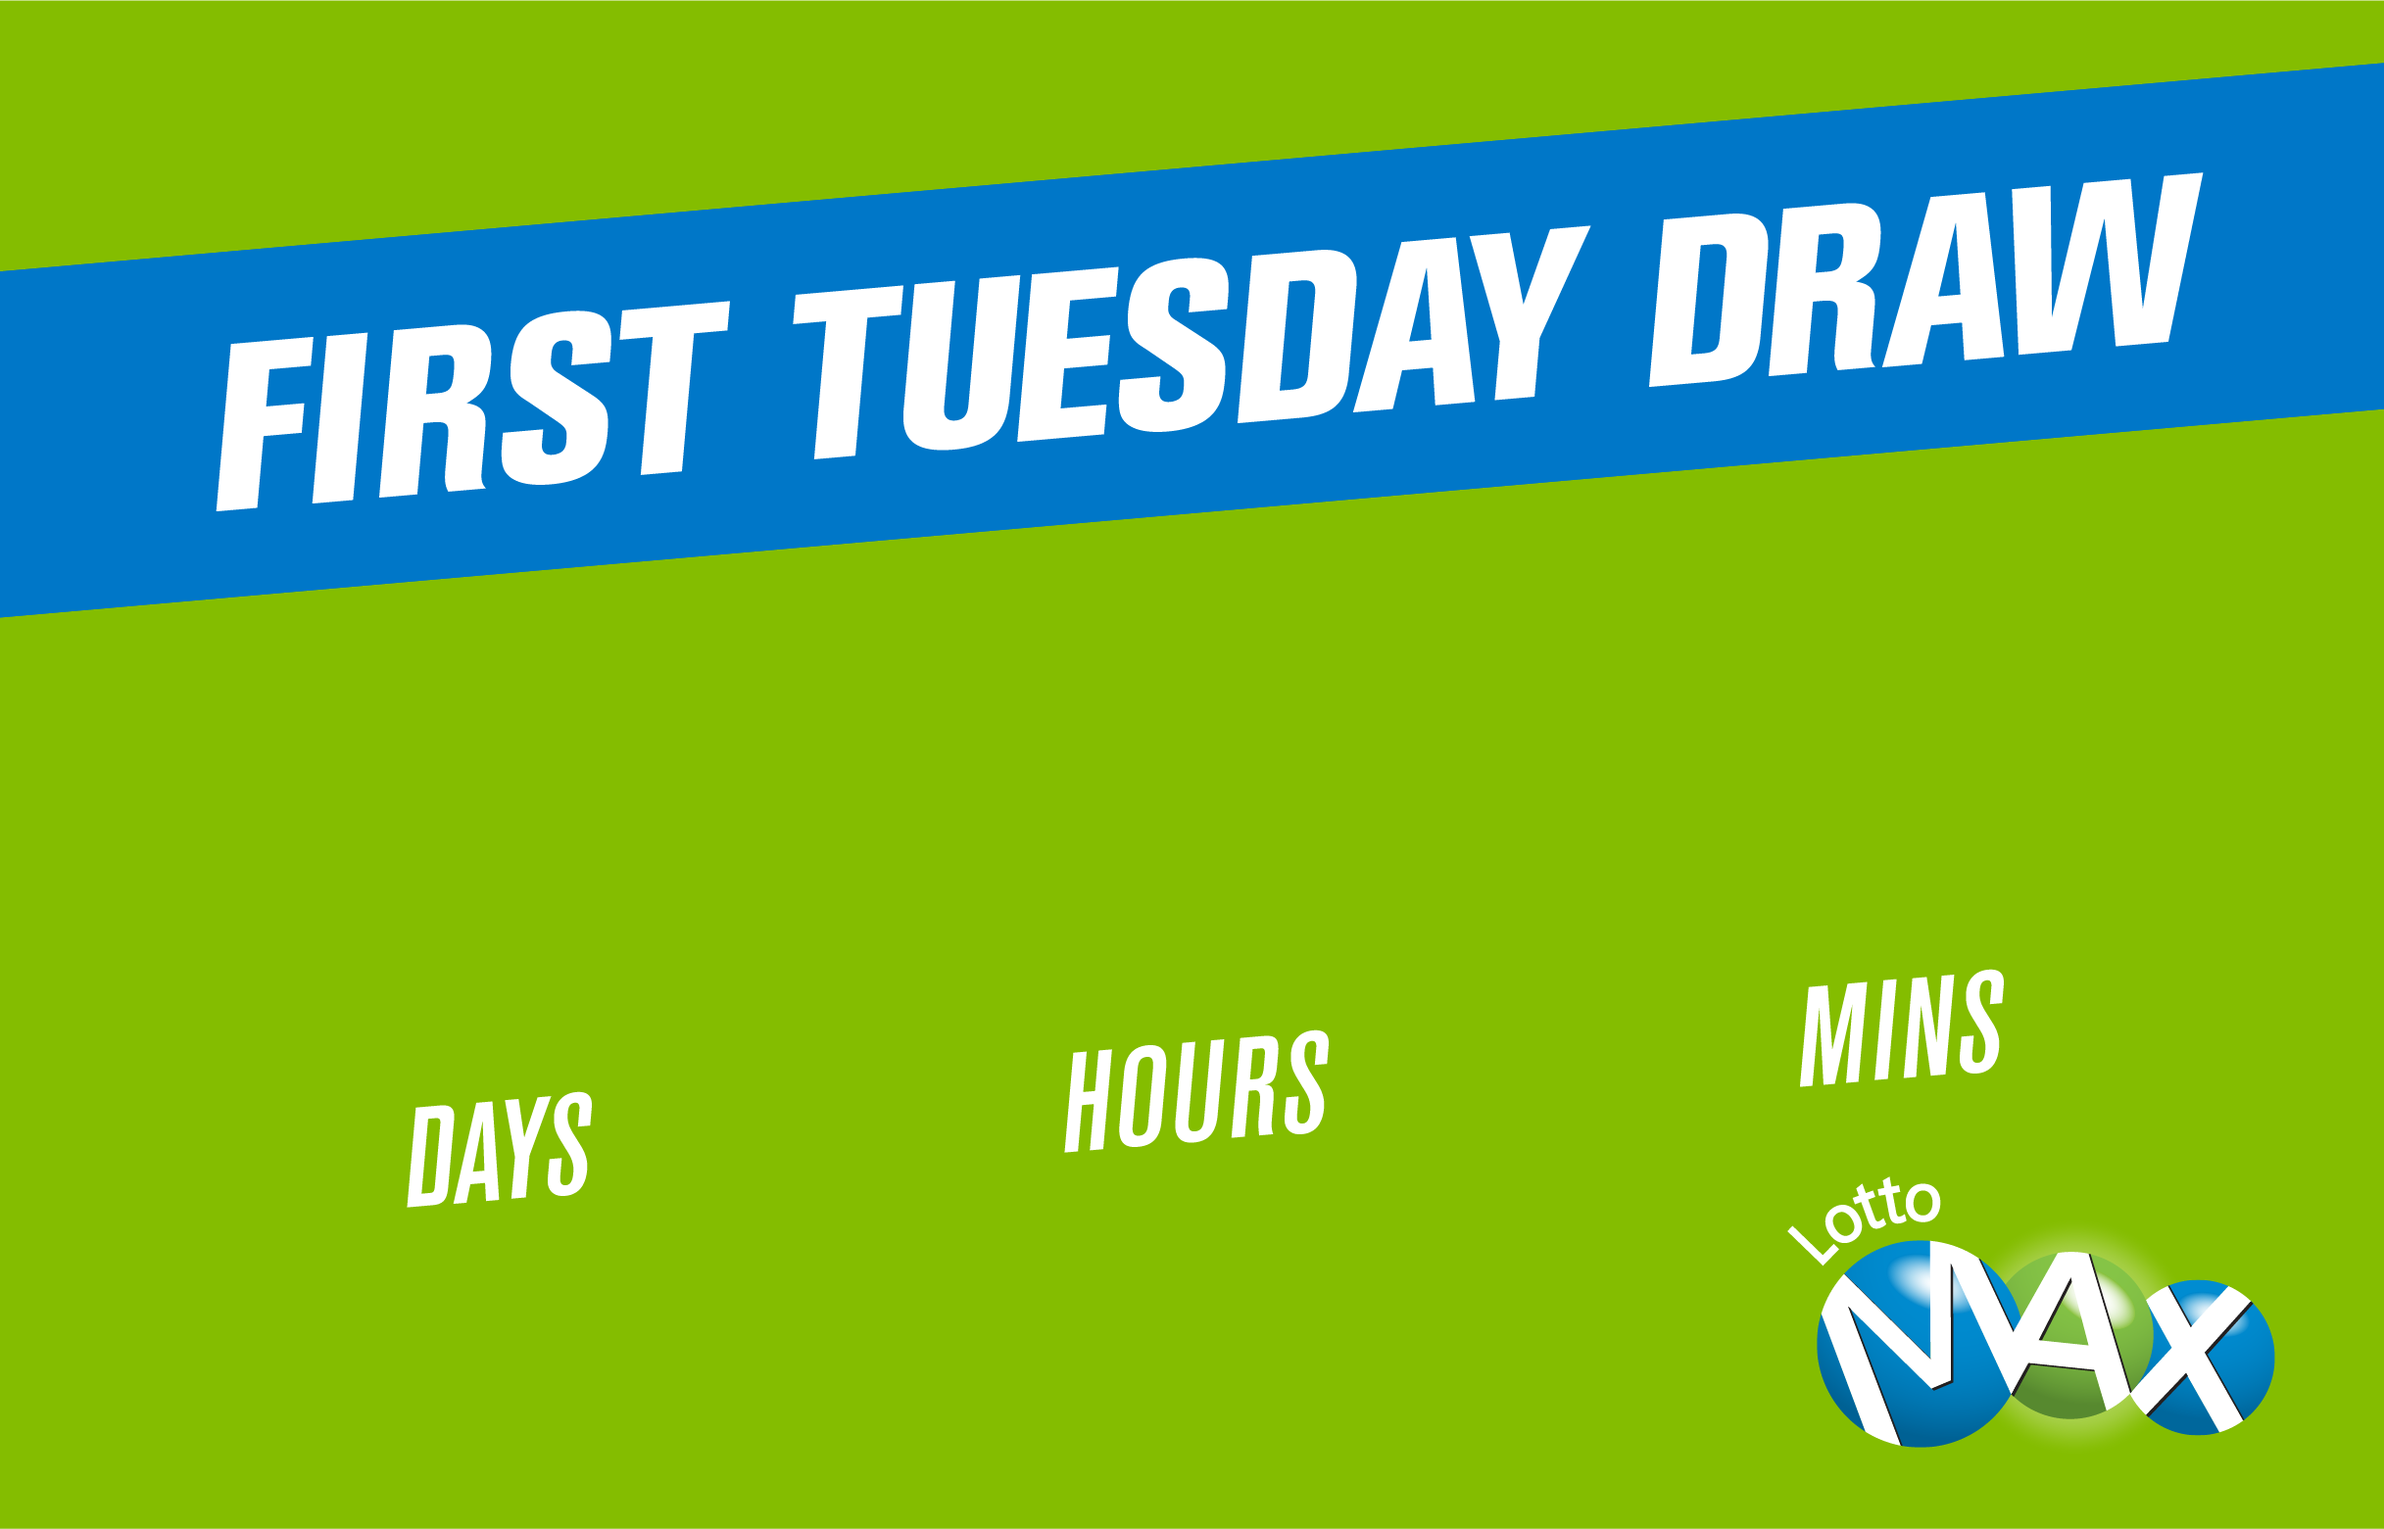
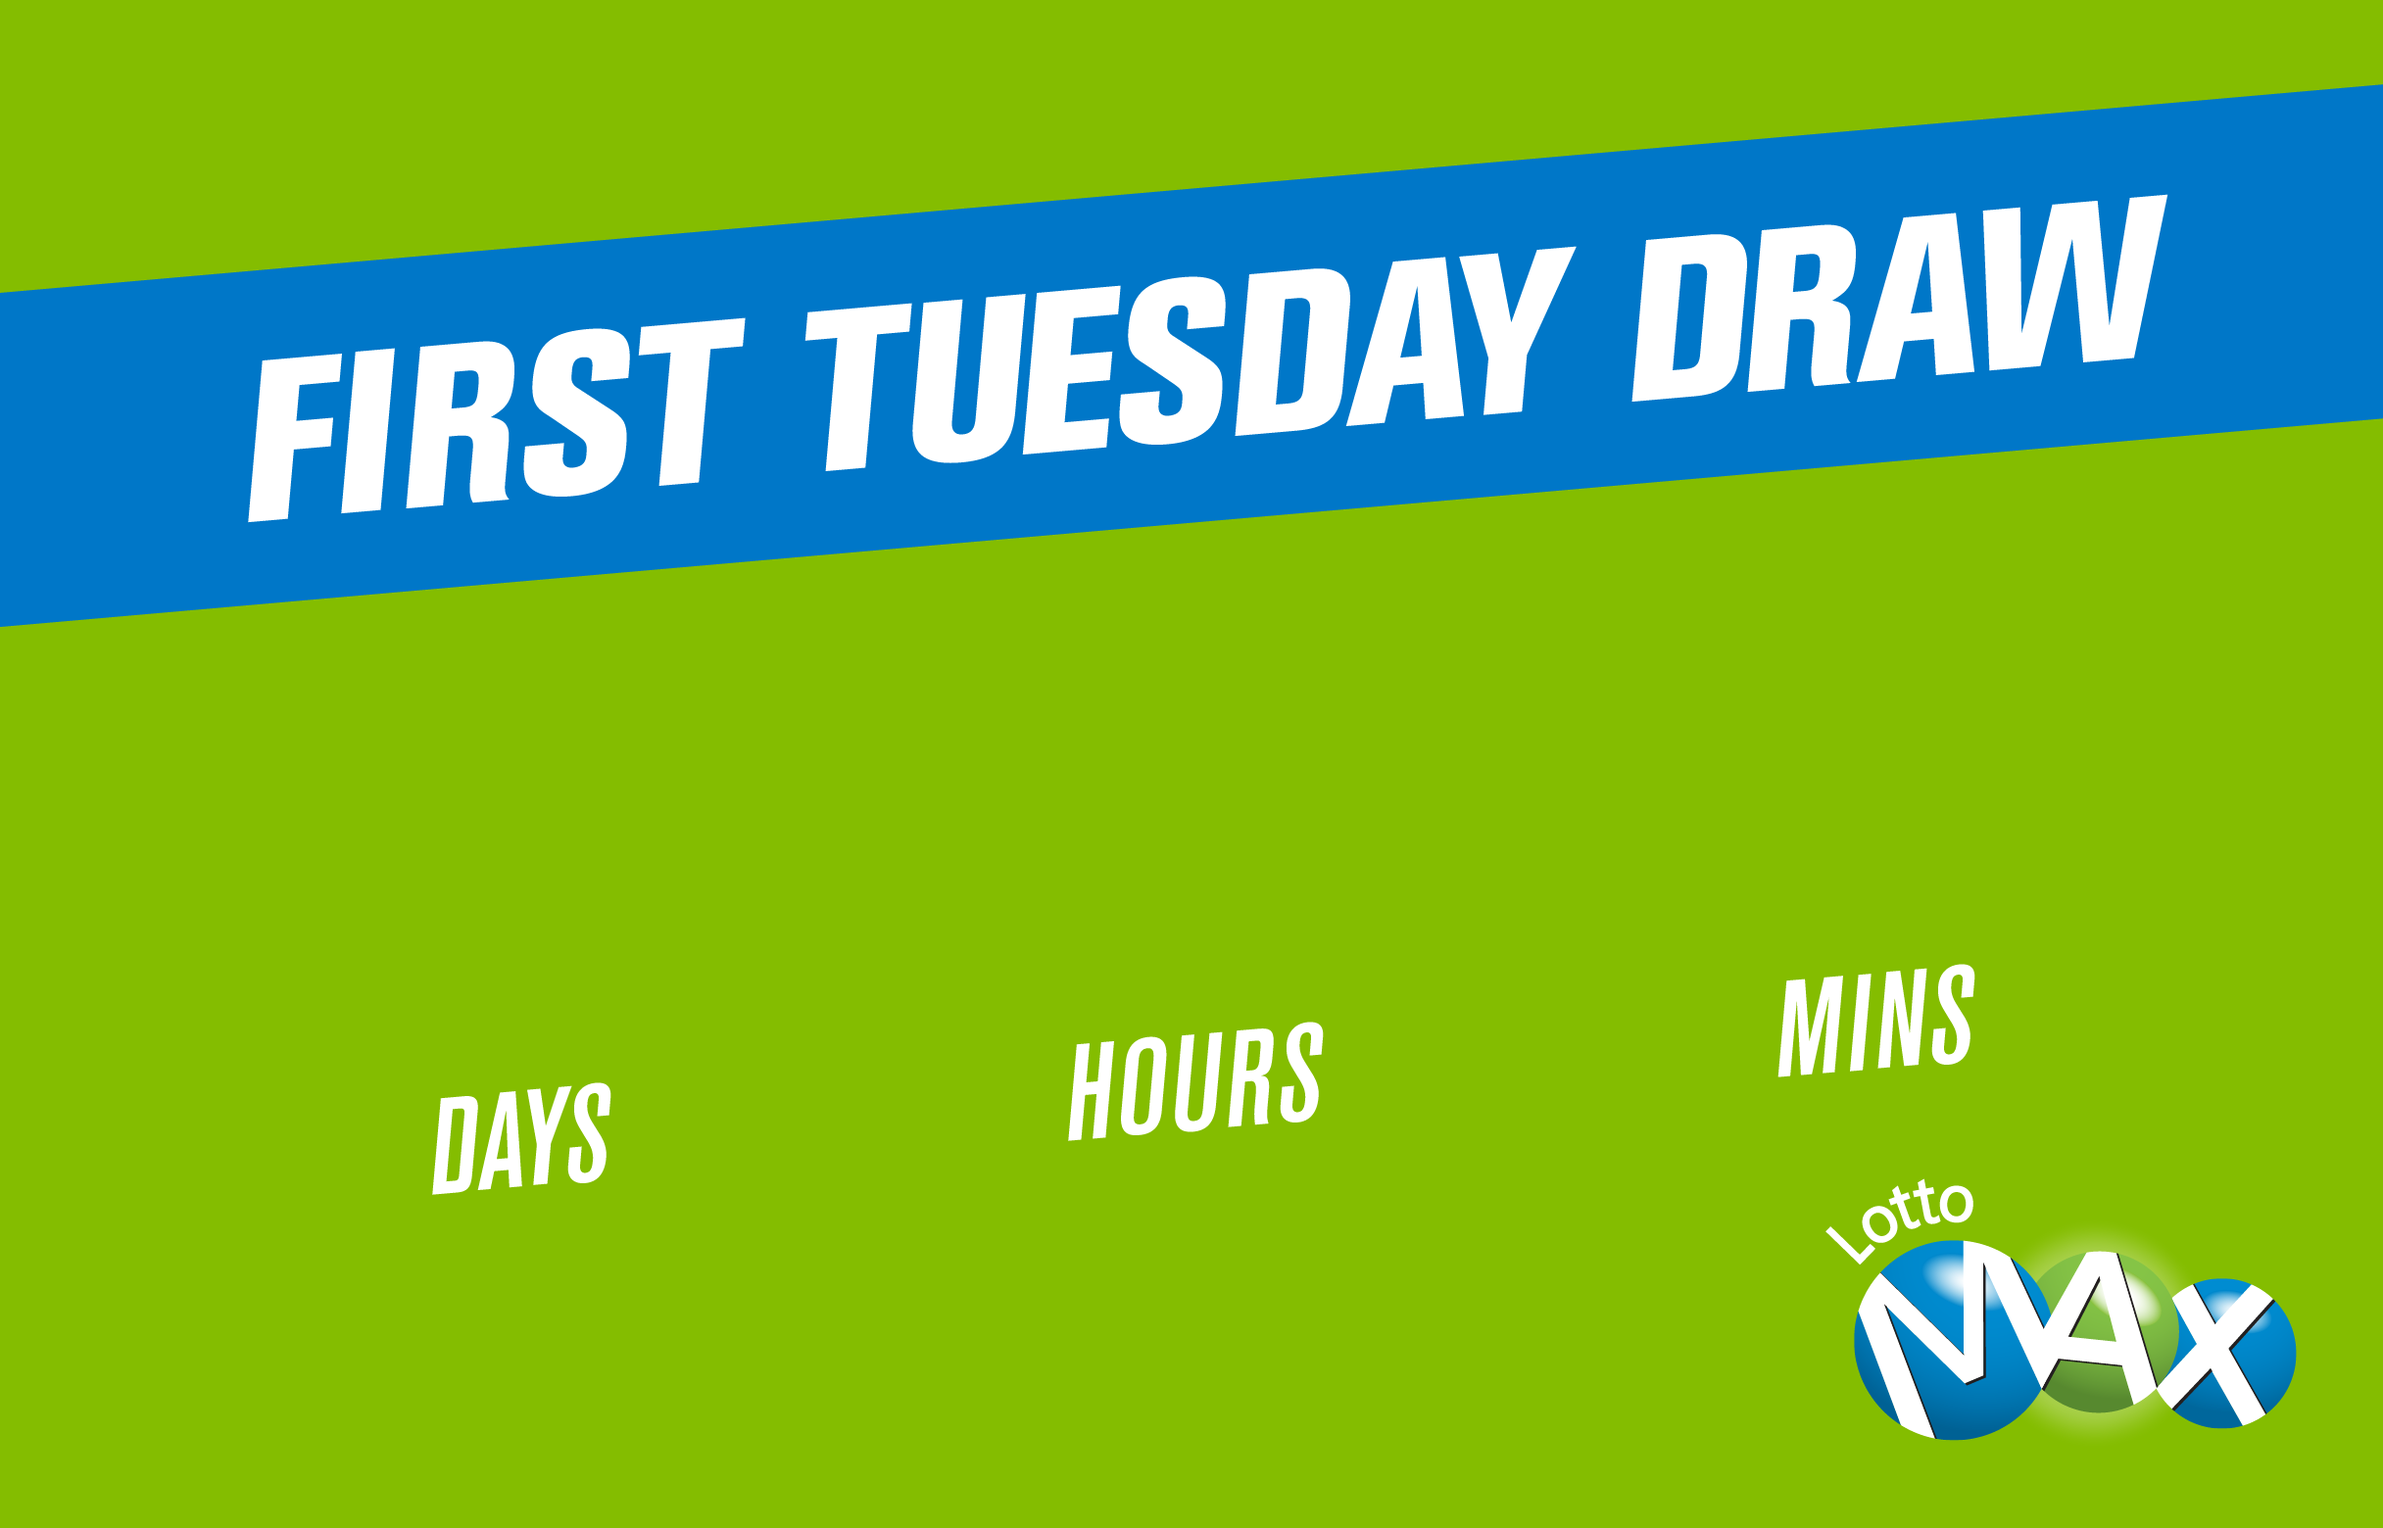
italics added and improved alignemnt

diff --git a/campaigns/olg-first/index.html b/campaigns/olg-first/index.html
@@ -25,10 +25,11 @@
 		}
 
 		.info {
-			font-size: 30em;
-			text-shadow: 10px 15px #0077C8;
+			font-size: 29.1em;
+			text-shadow: 9px 9px #0077C8;
 			color: white;
 			font-family: noto;
+			font-style: italic;
 		}
 		</style>
 	</head>

diff --git a/campaigns/olg-fri/index.html b/campaigns/olg-fri/index.html
@@ -25,10 +25,11 @@
 		}
 
 		.info {
-			font-size: 30em;
-			text-shadow: 10px 15px #0077C8;
+			font-size: 29.1em;
+			text-shadow: 9px 9px #0077C8;
 			color: white;
 			font-family: noto;
+			font-style: italic;
 		}
 		</style>
 	</head>

diff --git a/campaigns/olg-tue/index.html b/campaigns/olg-tue/index.html
@@ -25,10 +25,11 @@
 		}
 
 		.info {
-			font-size: 30em;
-			text-shadow: 10px 15px #0077C8;
+			font-size: 29.1em;
+			text-shadow: 9px 9px #0077C8;
 			color: white;
 			font-family: noto;
+			font-style: italic;
 		}
 		</style>
 	</head>
